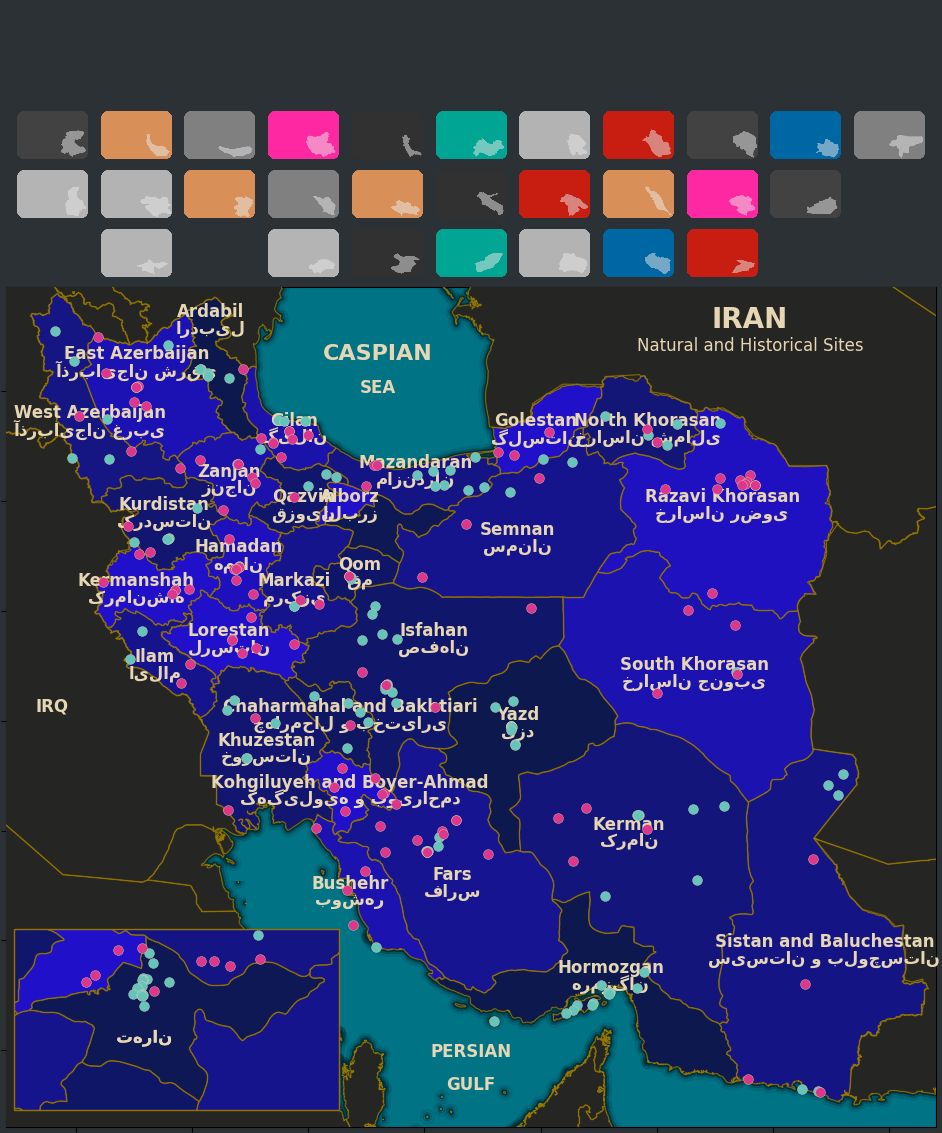
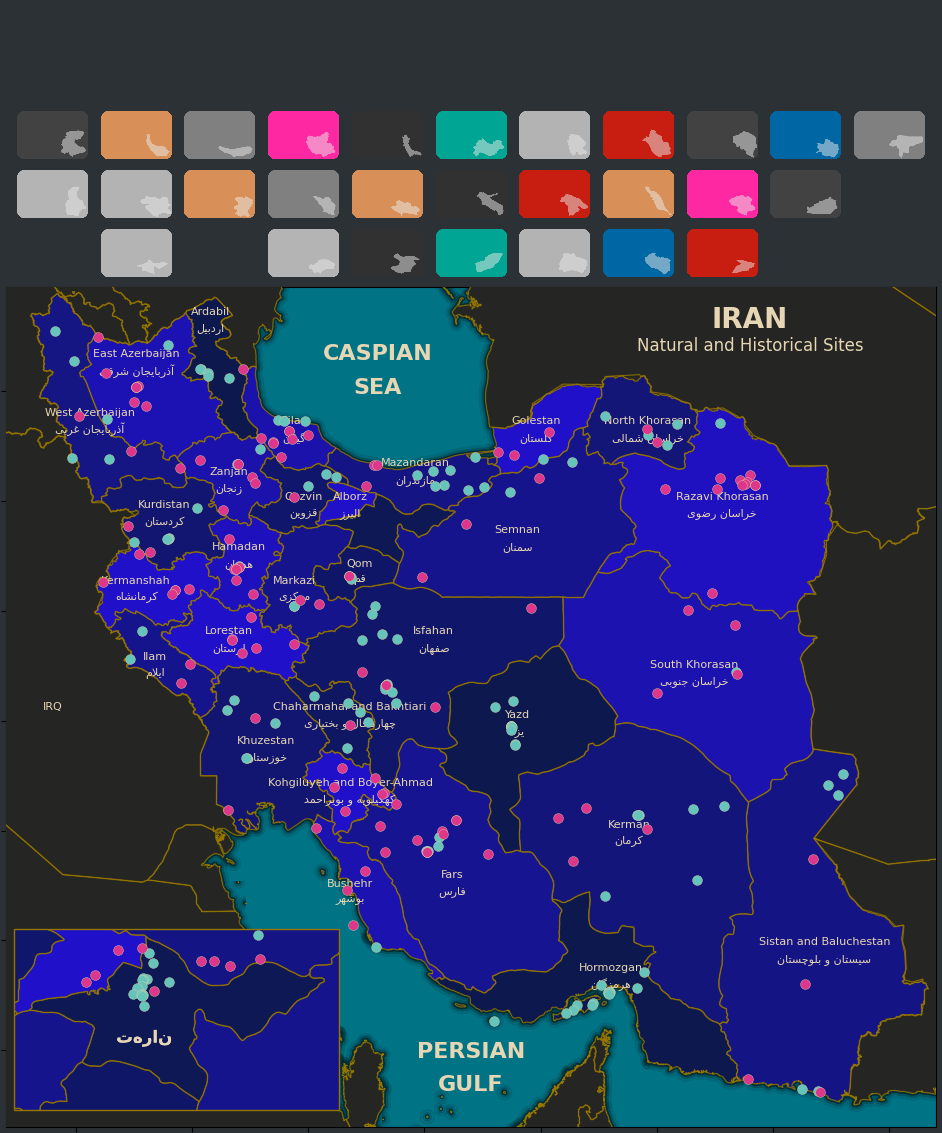
update persian letter plotting

diff --git a/plotting/plotting_manager.py b/plotting/plotting_manager.py
@@ -2,7 +2,9 @@ import io
 import math
 import os
 import random
+import re
 
+import arabic_reshaper
 import cairosvg
 import geopandas as gpd
 import matplotlib.image as mpimg
@@ -11,6 +13,7 @@ import matplotlib.pyplot as plt
 import numpy as np
 import pandas as pd
 from adjustText import adjust_text
+from bidi.algorithm import get_display
 from matplotlib import patches
 from matplotlib.offsetbox import AnnotationBbox, OffsetImage
 from matplotlib.patches import Rectangle
@@ -111,6 +114,9 @@ class PlotManager:
 
         for label in self.text:
 
+            print(label["text"])
+            label["text"] = self.prepare_text(text=label["text"])
+
             style = self.text_styles[label["type"]]
                 
             ax.text(
@@ -125,6 +131,20 @@ class PlotManager:
                 alpha=1,
                 **style
             )
+
+    def prepare_text(self, text):
+
+        # Arabic/Persian Unicode blocks
+        contains_rtl = re.search(
+            r'[\u0600-\u06FF\u0750-\u077F\u08A0-\u08FF]',
+            text
+        )
+
+        if contains_rtl:
+            text = arabic_reshaper.reshape(text)
+            text = get_display(text)
+
+        return text
 
 
     def _plot_background(self, ax, zorder):
